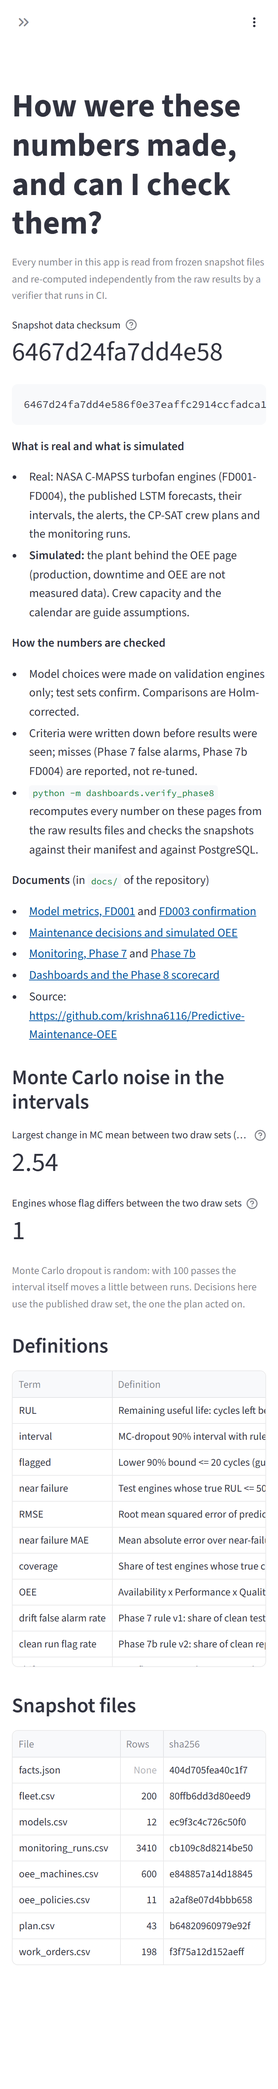
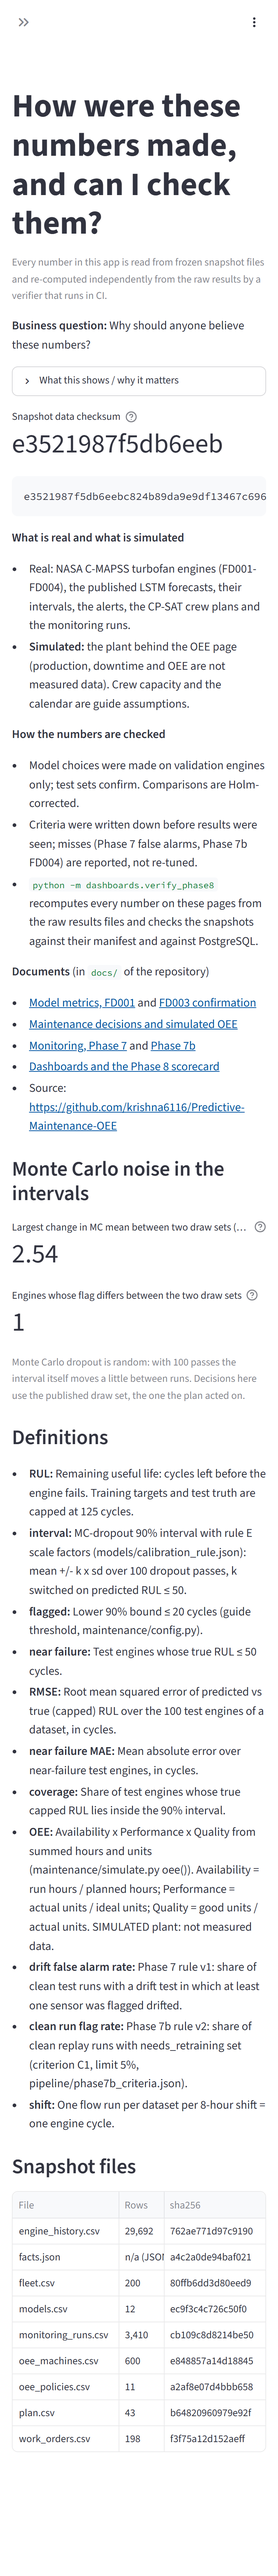
v1.1 post-merge evidence: live checks on the real app, deployed checksum re-captured, Phase 9 10/10, v1.1 scorecard 5/5

Changed region(s): [[0.0307, 0.0312, 0.9507, 0.9372], [0.0307, 0.3749, 0.0613, 0.4061]]

diff --git a/CLAUDE.md b/CLAUDE.md
@@ -19,8 +19,8 @@ Portfolio project: predict remaining useful life (RUL) of turbofan engines from 
 - Phase 7b (monitoring re-tested): done. Criteria `pipeline/phase7b_criteria.json` (ce5a16e), rule v2 `pipeline/monitoring2.py` + `calibrate_monitoring2.py` -> `monitoring_rule_v2.json` (b7b0cb2; cross-fitted 60-engine calibration fleets), fresh fleets FD002/FD004 (`pipeline/conditions.py` per-condition scaling, `models/run_fresh.py`, `models/oof.py`; 0886257), flow scenarios (`--fleet staggered`, `--monitor v2|v2.1`, `--closed-loop`), `pipeline/fault_suite.py` (mirror, proven equal to the flow), `pipeline/check_phase7b.py`, outputs `results/phase7b/`, doc `docs/MONITORING_7B.md` (`report_phase7b`), verifier `pipeline/verify_phase7b.py` (CI job phase7), `notebooks/07b_monitoring.ipynb`. Pre-registered result: C1 FD002 pass (0.0%/0.9%), FD004 FAIL (19.5%/13.9%); C2-C4 pass on both. v2.1 (log-scale spread, POST HOC) fixes a real defect but FD004 still fails (18.8%/11.2%): likely fault-mode mixture, not proven. Closed loop: labels-only miss rate 24% vs true 3.9% (censoring). All four NASA datasets now used.
 - Phase 8 (dashboards): done, scorecard 5/5. Pre-registered `dashboards/phase8_spec.json` + `phase8_scorecard.json` (8fe0ad9). Snapshots `dashboards/snapshots/` (8 files, manifest, data checksum) from `export_snapshots.py`; Streamlit app `app/` (5 question pages, snapshots only, `app/requirements.txt` exact pins, light theme pinned in `.streamlit/config.toml`); deployed on Community Cloud from branch `main` (since v1.0.0; first from `phase8`, now deleted), Python 3.14: https://predictive-maintenance-oee.streamlit.app (`dashboards/app_url.txt`). Verifier `python -m dashboards.verify_phase8 [--local]` (590 displayed values, snapshots cell for cell vs files/PostgreSQL, 7 planted bugs, Power BI exports); CI job `dashboards` installs only the app pins on Python 3.12/3.13/3.14 (3.11 cannot install numpy 2.5.4). Power BI: read-only login `powerbi_ro` (`dashboards/create_readonly_role.py`; recreate after a Postgres reinstall), model + 17 measures + 4 pages in `C:\Users\krish\Documents\Phase8.pbip` (outside the repo), theme `dashboards/powerbi_theme.json`; evidence in `docs/figures/phase8/` (exports, PDF, PNGs, phone shots, `capture_log.json` from `scripts/capture_phase8_screenshots.py`; Playwright is not a project dependency). Manual checks in `docs/PHASE8_CHECKLIST.md`; `docs/DASHBOARDS.md` generated by `python -m dashboards.report_phase8`. 131 tests.
 - Phase 9 (write-up): done and released as v1.0.0 (2026-11-14: tag on merge commit 16158a4, CI green on it; GitHub release, repository description/website/15 topics and social preview set; evidence `writeup/phase9_evidence.json`, all 10 checks pass, checklist ticked). Pre-registered `writeup/phase9_scorecard.json` (10 checks) + `phase9_spec.json` (b0a5b95). `writeup/facts.py` (every published number with unit and source), `writeup/report_phase9.py` renders README, docs/CASE_STUDY, RESULTS, ARCHITECTURE, DECISIONS, GLOSSARY, RELEASE_NOTES, docs/README.md (index) and notebook summaries (`--check`; byte-identical). Verifier `python -m writeup.verify_phase9 [--network|--planted|--links]` (re-reads results files directly; 8 planted bugs; evidence in `writeup/phase9_evidence.json`); CI jobs `writeup` and `writeup-repro` (README's Run locally, verbatim). Pre-commit hook `.githooks/pre-commit` (`git config core.hooksPath .githooks`) blocks stale generated files. App Home page (KPI tiles verified by Phase 8, still 5/5). Post hoc: 8ba1e9d (Phase 4-7b README quotes looked up in the published docs), a9351fa (W2's CLAUDE.md line pending until the tag). Release steps and manual items in `docs/PHASE9_CHECKLIST.md`; social preview `docs/figures/phase9/social_preview.png`. Career materials outside the repo (Documents\Job-Applications). 137 tests.
-- v1.1 (recruiter showcase): built on branch `v1.1` (pre-registered f573ef3: `dashboards/v11_spec.json`, `v11_scorecard.json`, `docs/V11_CHECKLIST.md`). Cost what-if (illustrative; `app/costmodel.py`), Home at a glance, engine drill-down (`engine_history.csv` snapshot), plain-English help (`app/common.py` PLAIN). Smoke check `python -m dashboards.smoke_v11 [--live URL]`; verifier `python -m dashboards.verify_v11 [--local|--prior|--live URL|--record-ci]` (CI job verify; evidence `dashboards/v11_evidence.json`, `v11_local_checks.json`, figures `docs/figures/v11/`; Playwright only in a separate environment). All code checks and the preview live checks pass; pending: live checks on the real app, CI on the merge candidate, author review. README 'Try the live app' line + hero `docs/figures/v11/hero_home.png`; `docs/RELEASE_NOTES_v1.1.0.md` generated. Preview app: https://pm-oee-v11-preview.streamlit.app (author deletes it after the merge). `report_phase9` writes LF files, so on this machine (autocrlf) a re-render shows line-ending-only changes.
-- Next: author review of the preview, then merge `v1.1` to `main` (ask first), live checks on the real app, re-capture the deployed checksum (Phase 8 D2.4), `verify_phase9 --network`, record CI, tag v1.1.0 (ask first). Open: a fault-mode-aware expected level needs unseen data (e.g. N-CMAPSS) to confirm. The live app deploys from `main`. GitHub CLI: `C:\Program Files\GitHub CLI\gh.exe` (signed in as krishna6116).
+- v1.1 (recruiter showcase): built on branch `v1.1` (pre-registered f573ef3: `dashboards/v11_spec.json`, `v11_scorecard.json`, `docs/V11_CHECKLIST.md`). Cost what-if (illustrative; `app/costmodel.py`), Home at a glance, engine drill-down (`engine_history.csv` snapshot), plain-English help (`app/common.py` PLAIN). Smoke check `python -m dashboards.smoke_v11 [--live URL]`; verifier `python -m dashboards.verify_v11 [--local|--prior|--live URL|--record-ci]` (CI job verify; evidence `dashboards/v11_evidence.json`, `v11_local_checks.json`, figures `docs/figures/v11/`; Playwright only in a separate environment). Merged to main 2026-11-15 (PR #7, merge commit 3281f48) after a Chrome review and fixes (2078c7c); v1.1 scorecard 5/5 (live checks on the preview and on the real app), Phase 8 5/5, Phase 9 10/10. Playwright is installed in the local .venv only (not a requirement). README 'Try the live app' line + hero `docs/figures/v11/hero_home.png`; `docs/RELEASE_NOTES_v1.1.0.md` generated. Preview app: https://pm-oee-v11-preview.streamlit.app (author deletes it after the merge). `report_phase9` writes LF files, so on this machine (autocrlf) a re-render shows line-ending-only changes.
+- Next: tag v1.1.0 on 3281f48 with the author's OK (release body = docs/RELEASE_NOTES_v1.1.0.md), merge the v1.1-evidence PR, author deletes the preview app. Open: a fault-mode-aware expected level needs unseen data (e.g. N-CMAPSS) to confirm. The live app deploys from `main`. GitHub CLI: `C:\Program Files\GitHub CLI\gh.exe` (signed in as krishna6116).
 
 ## Phases
 

diff --git a/docs/LEARNING_LOG.md b/docs/LEARNING_LOG.md
@@ -186,3 +186,5 @@
 - Part 5: `dashboards/verify_v11.py` recomputes everything independently (all 200 drill-downs, cost totals at 7 input sets with exact fractions, engine history vs the NASA files cell for cell), catches 4 planted bugs, and measures the deployed app with Playwright at laptop and phone width. Its own phone test had two bugs before the app was judged: Playwright's "iPhone SE" is 320 px wide, and Streamlit remembers an opened menu even across a reload, so the first screenshots showed the menu covering the page.
 - Part 6: README gains a 'Try the live app' line and the v1.1 Home as hero image; generated v1.1 changes note and `docs/RELEASE_NOTES_v1.1.0.md`. Phase 9 caught two things on the first render: the live-app link text contained 'oee' without 'simulated' (W5), and a link line with a short description in the docs index (W9). W3 now waits for the new GitHub links to exist on main.
 - Lesson: a measuring tool needs its own checks; when a test fails, look at its evidence (the screenshot) before blaming the app.
+- Later the same day: a Chrome review of the preview (prompted by the author) found no blockers and 11 smaller issues; fixed 8 (phone impact table, plan explanation, Monitoring summary and a note that described the wrong rule, cut-off labels), kept 2 by decision (OEE axis 0-100, Fleet on FD001); its 'menu stays open' finding came from a desktop window at 375 px, and a real mobile browser closes the menu. Merged as 3281f48 (PR #7) after 16 green checks; live checks then passed on the real app, the deployed checksum was re-captured, Phase 9 went back to 10/10 once the new links existed on main, and the v1.1 scorecard reached 5/5.
+- Found while re-capturing: Playwright's 'iPhone SE' preset is 320 px wide, so the Phase 8 phone screenshots were always taken at 320 px, not 375 as their script says. A stricter width, so D5.5 still holds, but the script's description is wrong (to fix separately).

diff --git a/docs/V11_CHECKLIST.md b/docs/V11_CHECKLIST.md
@@ -12,8 +12,8 @@ evidence is committed. Live checks run first on the preview app (branch `v1.1`),
 
 ## After the merge
 
-- [ ] **Deployed checksum re-captured** (Phase 8 D2.4): v1.1 adds engine_history.csv, so the snapshot data checksum changes; `python scripts/capture_phase8_screenshots.py` re-reads it from the live About page, compares it with the manifest and replaces `docs/figures/phase8/deployed_about.png`.
-- [ ] **Smoke check (V5.5) on the real app**: `python -m dashboards.smoke_v11 --live https://predictive-maintenance-oee.streamlit.app`; every page loads with no exception.
-- [ ] **Live checks on the real app** (https://predictive-maintenance-oee.streamlit.app, same command); evidence updated.
+- [x] **Deployed checksum re-captured** (Phase 8 D2.4): v1.1 adds engine_history.csv, so the snapshot data checksum changes; `python scripts/capture_phase8_screenshots.py` re-reads it from the live About page, compares it with the manifest and replaces `docs/figures/phase8/deployed_about.png`.
+- [x] **Smoke check (V5.5) on the real app**: `python -m dashboards.smoke_v11 --live https://predictive-maintenance-oee.streamlit.app`; every page loads with no exception.
+- [x] **Live checks on the real app** (https://predictive-maintenance-oee.streamlit.app, same command); evidence updated.
 - [ ] **Release v1.1.0** tagged on the merge commit after CI is green on it; release body equals `docs/RELEASE_NOTES_v1.1.0.md`.
 - [ ] **Preview app deleted** by the author.
